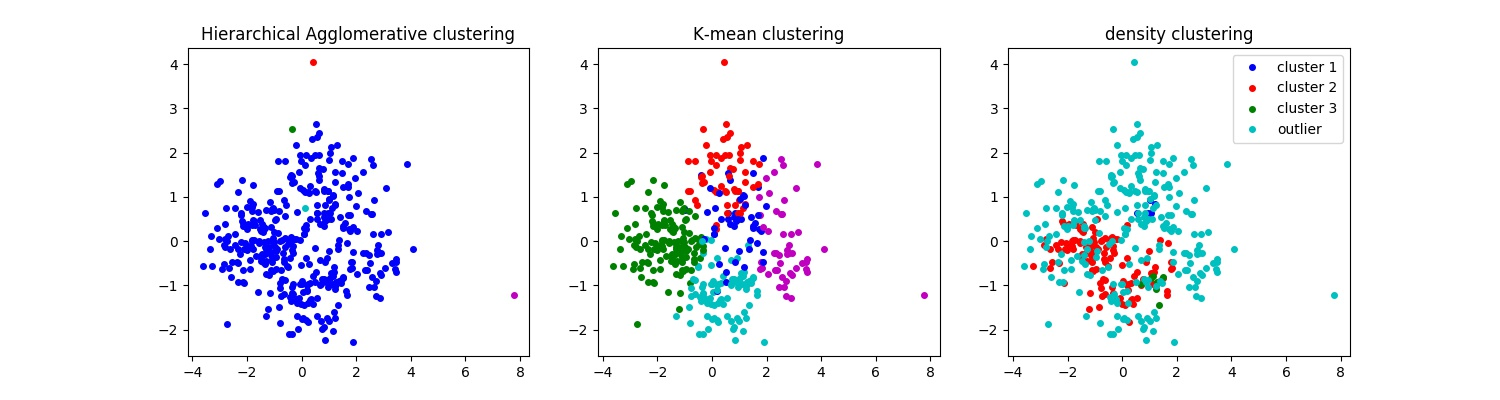
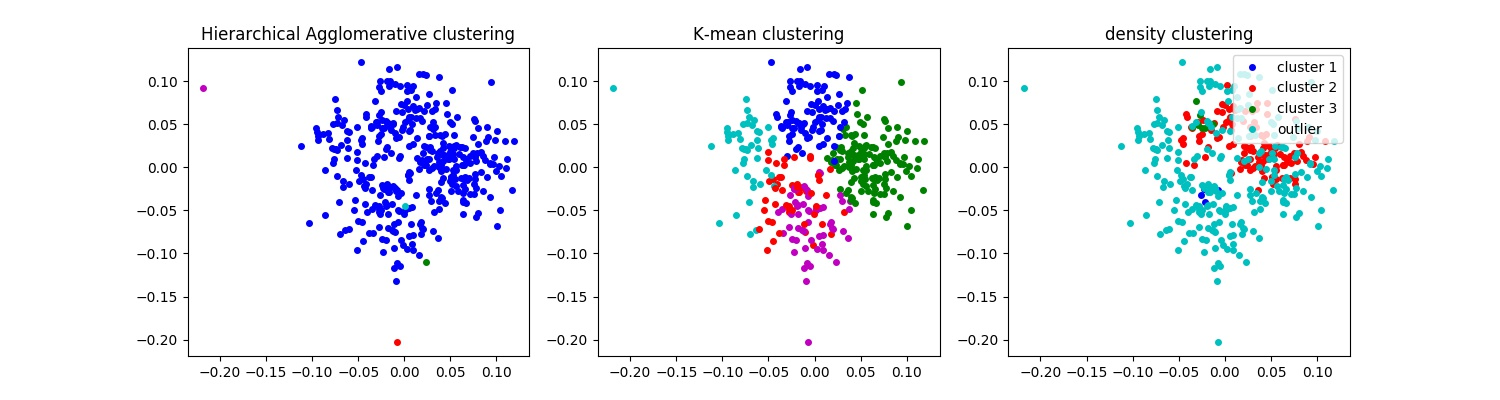
pca bug fix

diff --git a/Code/k_mean.py b/Code/k_mean.py
@@ -4,12 +4,12 @@ from sklearn.decomposition import PCA
 import matplotlib.pyplot as plt
 import random
 
-file = "cho"
+file = "iyer"
 data = np.genfromtxt(file+'.txt', delimiter='\t')
 
 expect = data[:, 1]
 genes = {gene: list(details) for gene, details in zip(data[:, 0], data[:, 2:])}
-K = 5
+K = 10
 color = ['bo', 'ro', 'go', 'co', 'mo', 'yo', 'ko', "b^", 'r^', 'g^', 'c^']
 colorMap = {}
 min_supp = 4
@@ -40,7 +40,7 @@ def perform_jaccard_coefficient(truth, matrix2):
                 diffr += 1
             else:
                 false_pos += 1
-    return (same) / (same + diffr)
+    return (same+false_pos) / (same+false_pos + diffr)
 
 
 def k_mean(K, max_iter=100000, center=[]):
@@ -286,10 +286,12 @@ if __name__ == '__main__':
 
     print(cluster)
     print(hier_agg_c)
+    # plot_PCA(data,labels,"k-mean")
     testData = data[:, 2:]
     pca = PCA(n_components=len(testData[0]))
-    d = pca.fit_transform(testData)
-
+    testData_T = np.matrix(testData).T
+    d = pca.fit(testData_T).components_
+    d = np.transpose(d)
     draw_k_mean()
     draw_heir()
     draw_dense()
